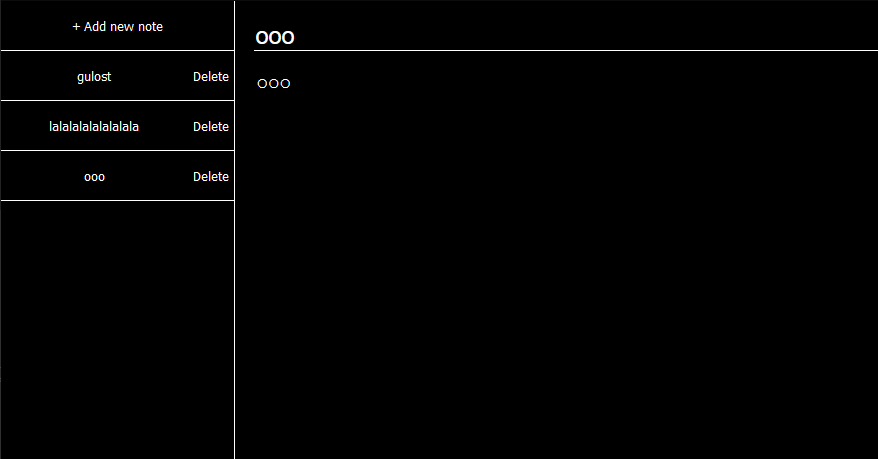
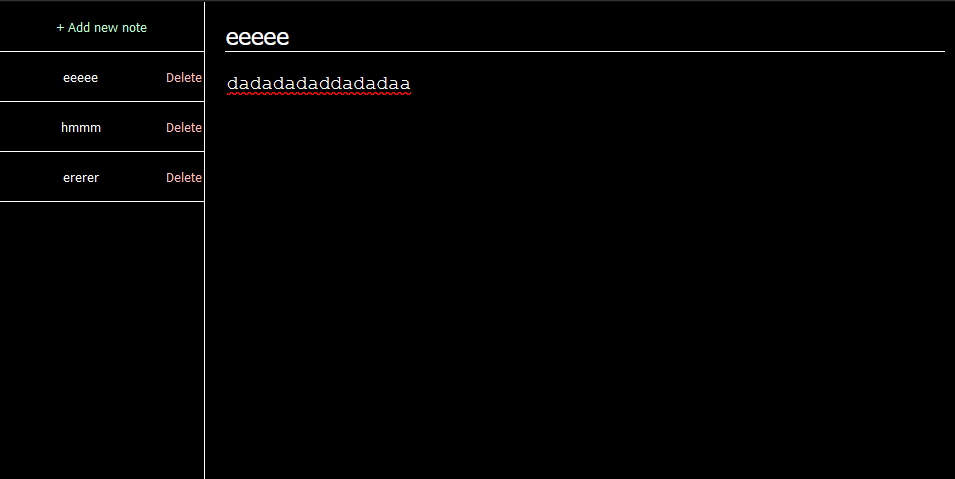
forskjellige farger på knapper gjennom globalt stilark: index.css. (Klarer ikke sende CSS module styling gjennom props.) - Flytter default-fargen hvit ut av button.module.css til index.css, hvor den kan overskrives.

diff --git a/src/components/Sidebar/Sidebar.js b/src/components/Sidebar/Sidebar.js
@@ -23,7 +23,7 @@ const Sidebar = (props) => {
           <Button className="w80" onClick={() => selectNoteHandler(element.id)}>
             {title}
           </Button>
-          <Button className="w20" onClick={() => deleteNoteHandler(element.id)}>
+          <Button className="w20 red" onClick={() => deleteNoteHandler(element.id)}>
             Delete
           </Button>
         </div>

diff --git a/src/components/Sidebar/AddNewNoteButton.js b/src/components/Sidebar/AddNewNoteButton.js
@@ -5,6 +5,6 @@ const AddNewNoteButton = (props) => {
     props.onAddNote();
   };
 
-  return <Button className="w100" onClick={addNew}>+ Add new note</Button>;
+  return <Button className="w100 green" onClick={addNew}>+ Add new note</Button>;
 };
 export default AddNewNoteButton;

diff --git a/src/components/UI/Button.module.css b/src/components/UI/Button.module.css
@@ -2,7 +2,7 @@
   padding: 0;
   height: 50px;
   border: none;
-  color: #fff;
+  /* color: #fff; */
   border: none;
   border-bottom: 1px solid #fff;
   background-color: #000;

diff --git a/src/index.css b/src/index.css
@@ -8,6 +8,18 @@ body {
   display: flex;
 }
 
+button {
+  color: #fff;
+}
+
+.green {
+  color: #bdffd1
+}
+
+.red {
+  color: #ffbdbd;
+}
+
 .w100 {
   width: 100%;
 }
